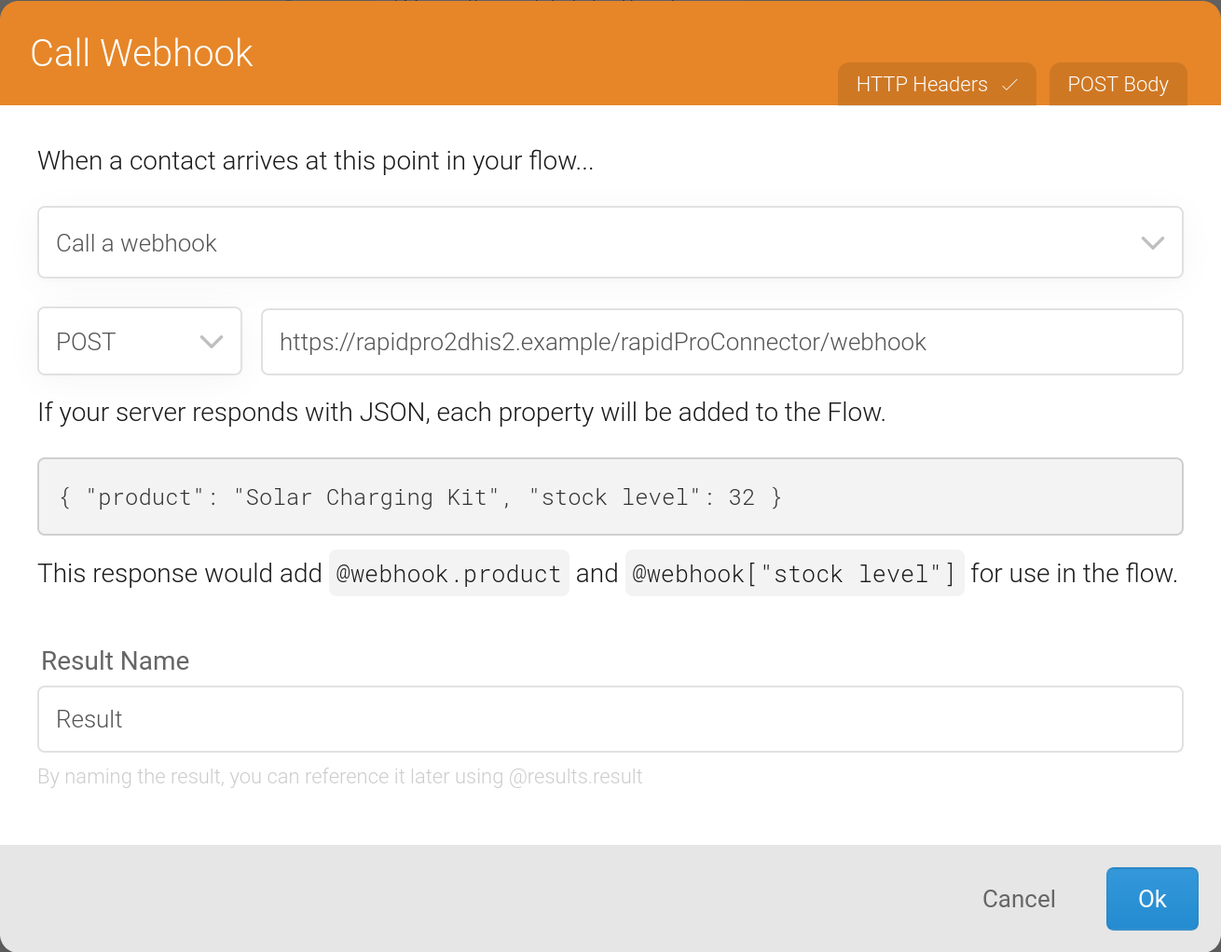
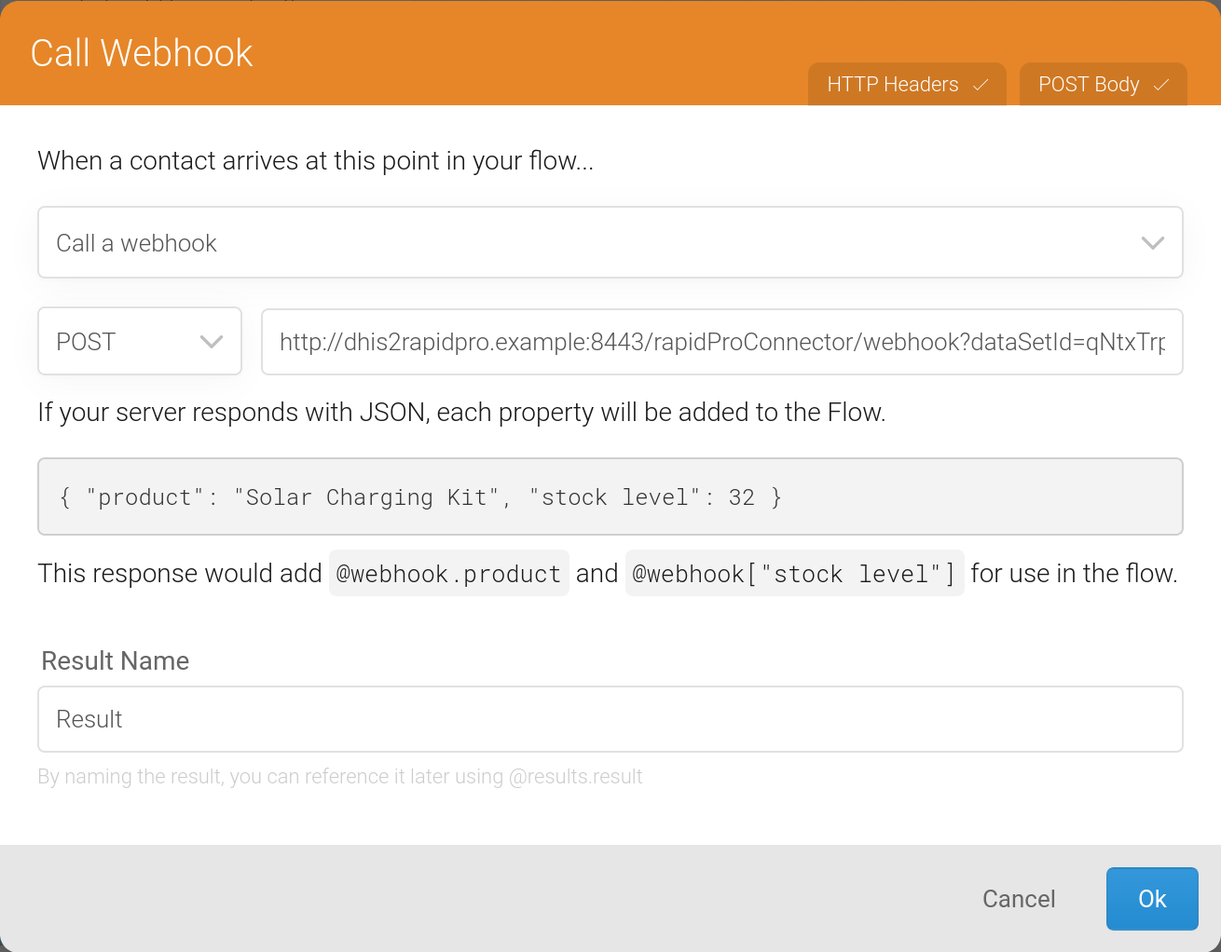
docs: update docs to reflect the latest changes in INTEROP-20, INTEROP-21 and INTEROP-22 (#46)

Changed region(s): [[0.2748, 0.3337, 0.9466, 0.364], [0.855, 0.0607, 0.9466, 0.091], [0.7023, 0.0607, 0.7939, 0.091]]

diff --git a/README.md b/README.md
@@ -6,7 +6,10 @@
 
 1. [Introduction](#introduction)
 2. [Requirements](#requirements)
-3. [Setup](#setup)
+3. [Features](#features)
+   1. [Contact Synchronisation](#contact-synchronisation)
+   2. [Aggregate Report Transfer](#aggregate-report-transfer)
+   3. [Auto-Reminders](#auto-reminders)
 4. [Getting Started](#getting-started)
 5. [Configuration](#configuration)
 6. [Monitoring & Management](#monitoring--management)
@@ -15,7 +18,7 @@
 
 ## Introduction
 
-DHIS-to-RapidPro is a stand-alone Java solution that integrates DHIS2 with RapidPro. [DHIS2](https://dhis2.org/about/) is an open-source information system primarily used in the health domain while [RapidPro](https://rapidpro.github.io/rapidpro/) is an open-source workflow engine for running mobile-based services. 
+DHIS-to-RapidPro is a stand-alone Java solution that integrates DHIS2 with RapidPro. [DHIS2](https://dhis2.org/about/) is an open-source information system primarily used in the health domain while [RapidPro](https://rapidpro.github.io/rapidpro/) is an open-source workflow engine for running mobile-based services.
 
 DHIS-to-RapidPro provides:
 
@@ -29,11 +32,29 @@ DHIS-to-RapidPro provides:
 * RapidPro v7.4
 * DHIS >= v2.36
 
-## Setup
+## Features
 
-### DHIS2 Instructions
+### Contact Synchronisation
 
-1. Set a code in each data element that will capture an aggregate value from RapidPro. To configure the data element code:
+When contact synchronisation is triggered, DHIS-to-RapidPro fetches the users from your DHIS2 server to either:
+* create RapidPro contacts containing the DHIS2 user's ID, organisation unit ID, name, and mobile phone number, or
+* update existing RapidPro contacts to match any changes in the corresponding DHIS2 users.
+
+Prior to synchronisation, DHIS-to-RapidPro automatically creates in RapidPro:
+* the contact group `DHIS2`, and 
+* two contact fields named `dhis2_organisation_unit_id` and `dhis2_user_id`
+
+DHIS-to-RapidPro will re-create this group and these fields should they be deleted. During synchronisation, each contact is assigned to the `DHIS2` group and has its fields populated accordingly. Any application error during the syncing of a contact will lead to an exception log entry but the error will not abort the synchronisation process. In other words, synchronisation may be partially successful.
+
+Contact synchronisation is enabled by default. Setting `sync.rapidpro.contacts` to `false` disables synchronisation. The interval rate at which contacts are synchronised is expressed as a cron expression with the config key `sync.schedule.expression`. Alternatively, hit DHIS-to-RapidPro's URL path `/rapidProConnector/sync`to manually kickoff syncing.
+
+### Aggregate Report Transfer
+
+Follow the subsequent DHIS2 and RapidPro setup instructions to be able to transfer aggregate reports from RapidPro to DHIS2.
+
+#### DHIS2 Instructions
+
+Set a code in each data element that will capture an aggregate value from RapidPro. To configure the data element code:
    1. Go to the Maintenance application
    2. Open the Data Elements page
    3. Search for the data element
@@ -41,66 +62,56 @@ DHIS-to-RapidPro provides:
       ![Data Element](static/images/dhis2-data-element.png)
       >***IMPORTANT:*** you need to enter a code that starts with a letter, a hyphen, an underscore, or a whitespace to achieve successful interoperability between DHIS2 and RapidPro.
 
-2. Create a [personal access token](https://docs.dhis2.org/en/use/user-guides/dhis-core-version-238/working-with-your-account/personal-access-tokens.html) or a user for DHIS-to-RapidPro such that the application can authenticate on DHIS2 and has permissions to fetch all the DHIS2 users in addition to completing the applicable data sets for the relevant organisation units.
-    >_Security note_: personal access token authentication is recommended over basic access authentication. 
-
-### RapidPro Instructions
+#### RapidPro Instructions
 
 1. Save each incoming aggregate value in the RapidPro flow to a result like what is shown next:
-![Flow Result](static/images/opd-attendance.png)
-The result name must match the code of the corresponding data element in DHIS2. Upper case letters in the data element code can be entered as lower case letters in the result name field while whitespaces and hyphens can be entered as underscores.
+   ![Flow Result](static/images/opd-attendance.png)
+   The result name must match the code of the corresponding data element in DHIS2. Upper case letters in the data element code can be entered as lower case letters in the result name field while whitespaces and hyphens can be entered as underscores.
 
 2. Create a webhook call node in the RapidPro flow to dispatch the results to DHIS-to-RapidPro:
    ![Flow Result](static/images/webhook.png)
    The webhook call node must be configured as follows:
-   - HTTP method selected is `POST`
-   - URL field points to the DHIS-to-RapidPro HTTPS address is listening on. The default HTTPS port number is _8443_ (see `server.port` in [Configuration](#configuration)): the path in the URL field is required to end with `/rapidProConnector/webhook`.
-   - HTTP body has the `data_set_id` property in the `flow object`. For example:
-     ```
-     @(json(object(
-      "contact", object(
-        "uuid", contact.uuid, 
-        "name", contact.name, 
-        "urn", contact.urn
-      ),
-      "flow", object(
-        "uuid", run.flow.uuid, 
-        "name", run.flow.name,
-        "data_set_id", "qNtxTrp56wV"
-      ),
-      "results", foreach_value(results, extract_object, "value", "category")
-     )))
-     ```
-     `data_set_id` identifies the DHIS2 data set that flow result values belong to. You need to look up the data set ID from the DHIS2 maintenance app and hard-code its ID as shown above.
+   - Select the HTTP method to be `POST`:
+     ![POST webhook](static/images/post-webhook.png)
+   - Set the URL field to the HTTP/S address that DHIS-to-RapidPro is listening on. The default HTTPS port number is _8443_ (see `server.port` in [Configuration](#configuration)): the path in the URL field is required to end with `/rapidProConnector/webhook`:
+     ![URL webhook](static/images/url-webhook.png)
+   - Append to the URL the `dataSetId` query parameter which identifies the data set that the contact is reporting. You need to look up the data set ID from the DHIS2 maintenance app and hard-code its ID as shown below:
+     ![Data set ID query parameter](static/images/data-set-id-query-param.png)
+   - You can optionally append the `reportPeriodOffset` query parameter which is the relative period to add or subtract from the current reporting period sent to DHIS2. If omitted, the `reportPeriodOffset` parameter defaults to -1.
+     ![Report period offset query parameter](static/images/report-period-offset-query-param.png)
+   - Another optional query parameter you can append is `orgUnitId`. This parameter overrides the value set in the contact's _DHIS2 Organisation Unit ID_ field.
 
 3. If contact synchronisation is disabled (see `sync.rapidpro.contacts` in [Configuration](#configuration)), then create a custom contact field named _DHIS2 Organisation Unit ID_:
-  ![Custom Field](static/images/custom-fields.png)
-  You must populate this field, either manually or automatically, for each contact that will have its details sent to the DHIS2-to-RapidPro webhook. The field value should be the contact's DHIS2 organisation unit identifier. By default, DHIS2-to-RapidPro expects the organisation unit identifier to be the ID (see `org.unit.id.scheme` in [Configuration](#configuration)).
+![Custom Field](static/images/custom-fields.png)
+Unless the `orgUnitId` webhook query parameter is set, you must populate this field, either manually or automatically, for each contact belonging to a DHIS2 organisation unit. The field should hold the contact's DHIS2 organisation unit identifier. By default, DHIS-to-RapidPro expects the organisation unit identifier to be the ID (see `org.unit.id.scheme` in [Configuration](#configuration)).
 
-4. On the other hand, if contact synchronisation is enabled, then create a dedicated user for DHIS2-to-RapidPro with the _Editor_ role. Take note of the user's API token so that it can be used during DHIS2-to-RapidPro's configuration (see `rapidpro.api.token` in [Configuration](#configuration)).
+### Auto-Reminders
+
+Reminders for overdue reports are sent for each DHIS2 data set specified in the config property `reminder.data.set.ids`. In this property, you enter the data set IDs separated by comma. Reminders are sent to contacts that are within the `DHIS2` group. This group is automatically created and contacts assigned to it as part of the contact synchronisation process but you can also manually create the group in RapidPro as shown below:
+
+![Create group](static/images/create-group.png)
+
+>IMPORTANT: Do not forget to assign auto-reminder contacts to the `DHIS2` group
+
+The interval rate at which contacts are reminded is expressed as a cron expression with the config key `reminder.schedule.expression`. Alternatively, hit DHIS-to-RapidPro's URL path `/rapidProConnector/reminders`to broadcast the reminders for overdue reports.
 
 ## Getting Started
 
 ### *nix Usage Examples
 
-##### Contact synchronisation, aggregate report transfer, and auto-reminders
+##### Basic usage
 ```shell
-./dhis2rapidpro.jar --dhis2.api.url=https://play.dhis2.org/2.38.1/api --dhis2.api.pat=d2pat_apheulkR1x7ac8vr9vcxrFkXlgeRiFc94200032556 --rapidpro.api.url=https://rapidpro.dhis2.org/api/v2 --rapidpro.api.token=3048a3b9a04c1948aa5a7fd06e7592ba5a17d3d0 --reminder.data.set.ids=V8MHeZHIrcP,PLq9sJluXvc,aLpVgfXiz0f --report.period.type=weekly
+./dhis2rapidpro.jar --dhis2.api.url=https://play.dhis2.org/2.38.1/api --dhis2.api.pat=d2pat_apheulkR1x7ac8vr9vcxrFkXlgeRiFc94200032556 --rapidpro.api.url=https://rapidpro.dhis2.org/api/v2 --rapidpro.api.token=3048a3b9a04c1948aa5a7fd06e7592ba5a17d3d0
 ```
 
-##### Contact synchronisation and auto-reminders
+##### Auto-reminders
 ```shell
 ./dhis2rapidpro.jar --dhis2.api.url=https://play.dhis2.org/2.38.1/api --dhis2.api.pat=d2pat_apheulkR1x7ac8vr9vcxrFkXlgeRiFc94200032556 --rapidpro.api.url=https://rapidpro.dhis2.org/api/v2 --rapidpro.api.token=3048a3b9a04c1948aa5a7fd06e7592ba5a17d3d0 --reminder.data.set.ids=V8MHeZHIrcP,PLq9sJluXvc,aLpVgfXiz0f
 ```
 
-##### Contact synchronisation and aggregate report transfer
+##### Contact synchronisation disabled
 ```shell
-./dhis2rapidpro.jar --dhis2.api.url=https://play.dhis2.org/2.38.1/api --dhis2.api.pat=d2pat_apheulkR1x7ac8vr9vcxrFkXlgeRiFc94200032556 --rapidpro.api.url=https://rapidpro.dhis2.org/api/v2 --rapidpro.api.token=3048a3b9a04c1948aa5a7fd06e7592ba5a17d3d0 --report.period.type=weekly
-```
-
-##### Contact synchronisation disabled and aggregate report transfer
-```shell
-./dhis2rapidpro.jar --dhis2.api.url=https://play.dhis2.org/2.38.1/api --dhis2.api.pat=d2pat_apheulkR1x7ac8vr9vcxrFkXlgeRiFc94200032556 --report.period.type=weekly --sync.rapidpro.contacts=false --report.period.type=weekly
+./dhis2rapidpro.jar --dhis2.api.url=https://play.dhis2.org/2.38.1/api --dhis2.api.pat=d2pat_apheulkR1x7ac8vr9vcxrFkXlgeRiFc94200032556 --sync.rapidpro.contacts=false
 ```
 
 ## Configuration
@@ -111,27 +122,26 @@ By order of precedence, a config property can be specified:
 2. as an OS environment variable (e.g., `export DHIS2_API_URL=https://play.dhis2.org/2.38.1/api`)
 3. in a key/value property file called `application.properties` or a YAML file named `application.yml`
 
-| Config name                     |     | Description                                                                                                                                                                           | Default value                               | Example value                                      |
-|---------------------------------|:----|---------------------------------------------------------------------------------------------------------------------------------------------------------------------------------------|---------------------------------------------|----------------------------------------------------|
-| `dhis2.api.url`                 |     | DHIS2 server Web API URL.                                                                                                                                                             |                                             | `https://play.dhis2.org/2.38.1/api`                |
-| `dhis2.api.pat`                 |     | Personal access token to authenticate with on DHIS2. This property is mutually exclusive to `dhis2.api.username` and `dhis2.api.password`.                                            |                                             | `d2pat_apheulkR1x7ac8vr9vcxrFkXlgeRiFc94200032556` |
-| `dhis2.api.username`            |     | Username of the DHIS2 user to operate as.                                                                                                                                             |                                             | `admin`                                            |
-| `dhis2.api.password`            |     | Password of the DHIS2 user to operate as.                                                                                                                                             |                                             |                                                    |
-| `rapidpro.api.url`              |     | RapidPro server Web API URL. This property should be left empty if `sync.rapidpro.contacts` is `false`.                                                                               |                                             | `https://rapidpro.dhis2.org/api/v2`                |
-| `rapidpro.api.token`            |     | API token to authenticate with on RapidPro. This property should be left empty if `sync.rapidpro.contacts` is `false`.                                                                |                                             | `3048a3b9a04c1948aa5a7fd06e7592ba5a17d3d0`         |
-| `server.port`                   |     | The TCP port number the application will bind to for accepting HTTP requests.                                                                                                         | `8443`                                      | `443`                                              |
-| `sync.schedule.expression`      |     | Cron expression for synchronising RapidPro contacts with DHIS2 users. By default, synchronisation occurs every half hour.                                                             | `0 0/30 * * * ?`                            | `0 0 0 * * ?`                                      |
-| `reminder.schedule.expression`  |     | Cron expression for broadcasting reminders of overdue reports to RapidPro contacts. By default, overdue report reminders are sent at 9 a.m. every day.                                | `0 0 9 ? * *`                               | `0 0 0 * * ?`                                      |
-| `sync.rapidpro.contacts`        |     | Whether to routinely create and update RapidPro contacts from DHIS2 users. Setting this property to `false` means that `rapidpro.api.url` and `rapidpro.api.token` can be left empty. | `true`                                      | `false`                                            |
-| `reminder.data.set.ids`         |     | Comma-delimited list of DHIS2 data set IDs for which overdue report reminders are sent.                                                                                               |                                             | `qNtxTrp56wV,TuL8IOPzpHh`                          |
-| `report.period.type`            |     | Period type to use for the data value set sent to DHIS2. Must be set to one of the following: `daily`, `weekly`, `monthly`, `bi_monthly`, `six_monthly`, `financial_year_nov`         |                                             | `weekly`                                           |
-| `report.period.offset`          |     | Relative period to add or subtract from the current reporting period sent to DHIS2.                                                                                                   | `0`                                         | `-1`                                               |
-| `org.unit.id.scheme`            |     | By which field organisation units are identified.                                                                                                                                     | `ID`                                        | `CODE`                                             |
-| `spring.security.user.name`     |     | Login username for Hawtio and H2 web consoles.                                                                                                                                        | `dhis2rapidpro`                             | `admin`                                            |
-| `spring.security.user.password` |     | Login password for Hawtio and H2 web consoles.                                                                                                                                        | `dhis2rapidpro`                             | `secret`                                           |
-| `spring.h2.console.enabled`     |     | Whether to enable the H2 web console.                                                                                                                                                 | `true`                                      | `false`                                            |
-| `spring.datasource.url`         |     | JDBC URL to access the dead letter channel. Changing this URL to connect to a non-H2 database requires that you add the database vendor's JDBC driver to the Java classpath.          | `jdbc:h2:./dhis2-rapidpro;AUTO_SERVER=TRUE` | `jdbc:postgresql://localhost:5432/dhis2rapidpro`   |
-| `spring.jmx.enabled`            |     | Whether to expose the JMX metrics.                                                                                                                                                    | `true`                                      | `false`                                            |
+| Config name                           | Description                                                                                                                                                          | Default value                              | Example value                                      |
+|---------------------------------------|----------------------------------------------------------------------------------------------------------------------------------------------------------------------|--------------------------------------------|----------------------------------------------------|
+| `dhis2.api.url`                       | DHIS2 server Web API URL.                                                                                                                                            |                                            | `https://play.dhis2.org/2.38.1/api`                |
+| `dhis2.api.pat`                       | Personal access token to authenticate with on DHIS2. This property is mutually exclusive to `dhis2.api.username` and `dhis2.api.password`.                           |                                            | `d2pat_apheulkR1x7ac8vr9vcxrFkXlgeRiFc94200032556` |
+| `dhis2.api.username`                  | Username of the DHIS2 user to operate as.                                                                                                                            |                                            | `admin`                                            |
+| `dhis2.api.password`                  | Password of the DHIS2 user to operate as.                                                                                                                            |                                            |                                                    |
+| `rapidpro.api.url`                    | RapidPro server Web API URL.                                                                                                                                         |                                            | `https://rapidpro.dhis2.org/api/v2`                |
+| `rapidpro.api.token`                  | API token to authenticate with on RapidPro.                                                                                                                          |                                            | `3048a3b9a04c1948aa5a7fd06e7592ba5a17d3d0`         |
+| `server.port`                         | The TCP port number the application will bind to for accepting HTTP requests.                                                                                        | `8443`                                     | `443`                                              |
+| `sync.schedule.expression`            | Cron expression for synchronising RapidPro contacts with DHIS2 users. By default, synchronisation occurs every half hour.                                            | `0 0/30 * * * ?`                           | `0 0 0 * * ?`                                      |
+| `reminder.schedule.expression`        | Cron expression for broadcasting reminders of overdue reports to RapidPro contacts. By default, overdue report reminders are sent at 9 a.m. every day.               | `0 0 9 ? * *`                              | `0 0 0 * * ?`                                      |
+| `sync.rapidpro.contacts`              | Whether to routinely create and update RapidPro contacts from DHIS2 users.                                                                                           | `true`                                     | `false`                                            |
+| `reminder.data.set.ids`               | Comma-delimited list of DHIS2 data set IDs for which overdue report reminders are sent.                                                                              |                                            | `qNtxTrp56wV,TuL8IOPzpHh`                          |
+| `org.unit.id.scheme`                  | By which field organisation units are identified.                                                                                                                    | `ID`                                       | `CODE`                                             |
+| `spring.security.user.name`           | Login username for non-webhook services like the Hawtio and H2 web consoles.                                                                                         | `dhis2rapidpro`                            | `admin`                                            |
+| `spring.security.user.password`       | Login password for non-webhook services like the Hawtio and H2 web consoles.                                                                                         | `dhis2rapidpro`                            | `secret`                                           |
+| `spring.h2.console.enabled`           | Whether to enable the H2 web console.                                                                                                                                | `true`                                     | `false`                                            |
+| `spring.datasource.url`               | JDBC URL for persisting undeliverable reports and JMS queues.                                                                                                        | `jdbc:h2:./dhis2rapidpro;AUTO_SERVER=TRUE` | `jdbc:postgresql://localhost:5432/dhis2rapidpro`   |
+| `spring.datasource.driver-class-name` | Class name of the JDBC driver used to connect to the database. Changing this property requires that you add the database vendor's JDBC driver to the Java classpath. | `org.h2.Driver`                            | `org.postgresql.Driver`                            |
+| `spring.jmx.enabled`                  | Whether to expose the JMX metrics.                                                                                                                                   | `true`                                     | `false`                                            |
 
 
 ##  Monitoring & Management
@@ -142,27 +152,30 @@ From the Hawtio web console, apart from browsing application logs, the system op
 
 ![Hawtio Management Console](static/images/hawtio-management-console.png)
 
-You can log into the Hawtio console locally from [https://localhost:8443/management/hawtio](https://localhost:8443/management/hawtio) using the username and password `dhis2rapidpro`. You can set the parameter `management.endpoints.web.exposure.include` (i.e., `--management.endpoints.web.exposure.include=`) to an empty value to deny HTTP access to the Hawtio web console. 
+You can log into the Hawtio console locally from [https://localhost:8443/management/hawtio](https://localhost:8443/management/hawtio) using the username and password `dhis2rapidpro`. You can set the parameter `management.endpoints.web.exposure.include` (i.e., `--management.endpoints.web.exposure.include=`) to an empty value to deny HTTP access to the Hawtio web console.
 
 >***IMPORTANT***: immediately change the login credentials during setup (see `spring.security.user.name` and `spring.security.user.password` in [Configuration](#configuration)).
 
 ## Recovering Failed Reports
 
-A report that fails to be uploaded to DHIS2, perhaps because of an invalid webhook payload or an HTTP timeout error, has its associated RapidPro webhook JSON payload pushed to a relational dead letter channel for manual inspection. The dead letter channel table schema is as follows:
+A report that fails to be delivered to DHIS2, perhaps because of an invalid webhook payload or an HTTP timeout error, has its associated RapidPro webhook JSON payload pushed to a relational dead letter channel for manual inspection. The dead letter channel table schema is as follows:
 
-| Column name       | Column type              | Description                                                                                                                                                                                                                                                                                                                           | Column value example                                                                                                                                                                                                                                                                                                                                                                                                        |
-|-------------------|--------------------------|---------------------------------------------------------------------------------------------------------------------------------------------------------------------------------------------------------------------------------------------------------------------------------------------------------------------------------------|-----------------------------------------------------------------------------------------------------------------------------------------------------------------------------------------------------------------------------------------------------------------------------------------------------------------------------------------------------------------------------------------------------------------------------|
-| ID                | INTEGER                  | An auto-increment number identifying the row uniquely.                                                                                                                                                                                                                                                                                | 6                                                                                                                                                                                                                                                                                                                                                                                                                           |
-| PAYLOAD           | VARCHAR                  | Webhook JSON message as sent by RapidPro.                                                                                                                                                                                                                                                                                             | `{"contact":{"name":"John Doe","urn":"tel:+12065551213","uuid":"fb3787ab-2eda-48a0-a2bc-e2ddadec1286","dhis2_organisation_unit_id":"O6uvpzGd5pu"},"flow":{"name":"APT","uuid":"cb0360e3-d82a-4521-aad3-15afd704ec26","data_set_id":"qNtxTrp56wV"},"results":{"msg":{"value":"APT.2.4.6"},"gen_ext_fund":{"value":"2"},"mal_pop_total":{"value":"10"},"mal_llin_distr_pw":{"value":"3"},"gen_domestic_fund":{"value":"5"}}}` |
-| ERROR_MESSAGE     | VARCHAR                  | Message describing the root cause of the error.                                                                                                                                                                                                                                                                                       | `Response{protocol=http/1.1, code=500, message=, url=https://play.dhis2.org/2.38.1/api//dataValueSets?dataElementIdScheme=CODE&orgUnitIdScheme=bar}`                                                                                                                                                                                                                                                                        |
-| STATUS            | ENUM                     | Specifies the row's state which determines how the application processes the row. The user sets the status to `RETRY` for payloads that need to be retried. DHIS2-to-RapidPro sets the status to `ERROR` for payloads that could not be processed successfully. Alternatively, payloads that are processed are marked as `PROCESSED`. | `ERROR`                                                                                                                                                                                                                                                                                                                                                                                                                     |
-| CREATED_AT        | TIMESTAMP WITH TIME ZONE | Denotes the time the row was created.                                                                                                                                                                                                                                                                                                 | `2022-07-20 11:09:57.992 +0200`                                                                                                                                                                                                                                                                                                                                                                                             |
-| LAST_PROCESSED_AT | TIMESTAMP WITH TIME ZONE | Denotes the last time the row was processed.                                                                                                                                                                                                                                                                                          | `2022-07-20 11:09:57.992 +0200`                                                                                                                                                                                                                                                                                                                                                                                             |
+| Column name          | Column type              | Description                                                                                                                                                                                                                                                                                                                          | Column value example                                                                                                                                                                                                                                                                                                                                 |
+|----------------------|--------------------------|--------------------------------------------------------------------------------------------------------------------------------------------------------------------------------------------------------------------------------------------------------------------------------------------------------------------------------------|------------------------------------------------------------------------------------------------------------------------------------------------------------------------------------------------------------------------------------------------------------------------------------------------------------------------------------------------------|
+| ID                   | INTEGER                  | An auto-increment number identifying the row uniquely.                                                                                                                                                                                                                                                                               | 6                                                                                                                                                                                                                                                                                                                                                    |
+| PAYLOAD              | VARCHAR                  | Webhook JSON message as sent by RapidPro.                                                                                                                                                                                                                                                                                            | `{"contact":{"name":"John Doe","urn":"tel:+12065551213","uuid":"fb3787ab-2eda-48a0-a2bc-e2ddadec1286"},"flow":{"name":"APT","uuid":"cb0360e3-d82a-4521-aad3-15afd704ec26"},"results":{"msg":{"value":"APT.2.4.6"},"gen_ext_fund":{"value":"2"},"mal_pop_total":{"value":"10"},"mal_llin_distr_pw":{"value":"3"},"gen_domestic_fund":{"value":"5"}}}` |
+| DATA_SET_ID          | VARCHAR                  | ID of the DHIS2 data set that the report belongs to.                                                                                                                                                                                                                                                                                 | `V8MHeZHIrcP`                                                                                                                                                                                                                                                                                                                                        |
+| REPORT_PERIOD_OFFSET | INTEGER                  | Relative period to add or subtract from the current reporting period.                                                                                                                                                                                                                                                                | `-1`                                                                                                                                                                                                                                                                                                                                                 |
+| ORGANISATION_UNIT_ID | VARCHAR                  | Identifier of the DHIS2 organisation unit that the contact belongs to.                                                                                                                                                                                                                                                               | `Vth0fbpFcsO`                                                                                                                                                                                                                                                                                                                                        |
+| ERROR_MESSAGE        | VARCHAR                  | Message describing the root cause of the error.                                                                                                                                                                                                                                                                                      | `Response{protocol=http/1.1, code=500, message=, url=https://play.dhis2.org/2.38.1/api//dataValueSets?dataElementIdScheme=CODE&orgUnitIdScheme=bar}`                                                                                                                                                                                                 |
+| STATUS               | ENUM                     | Specifies the row's state which determines how the application processes the row. The user sets the status to `RETRY` for payloads that need to be retried. DHIS-to-RapidPro sets the status to `ERROR` for payloads that could not be processed successfully. Alternatively, payloads that are processed are marked as `PROCESSED`. | `ERROR`                                                                                                                                                                                                                                                                                                                                              |
+| CREATED_AT           | TIMESTAMP WITH TIME ZONE | Denotes the time the row was created.                                                                                                                                                                                                                                                                                                | `2022-07-20 11:09:57.992 +0200`                                                                                                                                                                                                                                                                                                                      |
+| LAST_PROCESSED_AT    | TIMESTAMP WITH TIME ZONE | Denotes the last time the row was processed.                                                                                                                                                                                                                                                                                         | `2022-07-20 11:09:57.992 +0200`                                                                                                                                                                                                                                                                                                                      |
 
 You can re-process a failed report by setting its corresponding row status column to `RETRY` using an [ANSI SQL UPDATE](https://www.w3schools.com/sql/sql_update.asp) command issued from an SQL client connected to the data store. For instance:
 
 ```sql
-UPDATE DEAD_LETTER_CHANNEL SET status = 'RETRY' WHERE STATUS = 'ERROR' 
+UPDATE DEAD_LETTER_CHANNEL SET status = 'RETRY' WHERE status = 'ERROR' 
 ```
 
 [H2](https://www.h2database.com) is the default relational data store that manages the dead letter channel. H2 has an in-built web console which allows you to issue SQL commands in order to view, edit, and retry failed reports:
@@ -181,8 +194,8 @@ The H2 DBMS is embedded with DHIS-to-RapidPro but the DBMS can be easily substit
 
 Unexpected behaviour in DHIS-to-RapidPro typically manifests itself as:
 
-* errors in the applications logs, or 
-* incorrect data (e.g., wrong organisation unit ID in the data value sets). 
+* errors in the applications logs, or
+* incorrect data (e.g., wrong organisation unit ID in the data value sets).
 
 The first step to determine the root cause of unexpected behaviour is to search for recent errors in the [dead letter channel](#recovering-failed-reports):
 
@@ -201,16 +214,19 @@ SET status = 'RETRY'
 WHERE status = 'ERROR' AND created_at > DATEADD('DAY', -1, CURRENT_TIMESTAMP())	
 ```
 
-After issuing the above SQL, DHIS-to-RapidPro will poll for the `RETRY` rows from the data store and re-process the reports. Processed rows, whether successful or not, are updated as `PROCESSED` and have their `LAST_PROCESSED_AT` column updated to the current time. If a retry fails, DHIS-to-RapidPro will go on to insert a corresponding new `ERROR` row in the `DEAD_LETTER_CHANNEL` table. 
+After issuing the above SQL, DHIS-to-RapidPro will poll for the `RETRY` rows from the data store and re-process the reports. Processed rows, whether successful or not, are updated as `PROCESSED` and have their `LAST_PROCESSED_AT` column updated to the current time. If a retry fails, DHIS-to-RapidPro will go on to insert a corresponding new `ERROR` row in the `DEAD_LETTER_CHANNEL` table.
 
 Non-transient failures such as validation errors require human intervention which might mean that you have to update the `payload` column value so that it conforms with the expected structure or data type:
 
 ```sql
 UPDATE DEAD_LETTER_CHANNEL 
-SET status = 'RETRY', payload = '{"contact":{"name":"John Doe","urn":"tel:+12065551213","uuid":"fb3787ab-2eda-48a0-a2bc-e2ddadec1286","dhis2_organisation_unit_id":"O6uvpzGd5pu"},"flow":{"name":"APT","uuid":"cb0360e3-d82a-4521-aad3-15afd704ec26","data_set_id":"qNtxTrp56wV"},"results":{"msg":{"value":"APT.2.4.6"},"gen_ext_fund":{"value":"2"},"mal_pop_total":{"value":"10"},"mal_llin_distr_pw":{"value":"3"},"gen_domestic_fund":{"value":"5"}}}' 
+SET status = 'RETRY', payload = '{"contact":{"name":"John Doe","urn":"tel:+12065551213","uuid":"fb3787ab-2eda-48a0-a2bc-e2ddadec1286"},"flow":{"name":"APT","uuid":"cb0360e3-d82a-4521-aad3-15afd704ec26"},"results":{"msg":{"value":"APT.2.4.6"},"gen_ext_fund":{"value":"2"},"mal_pop_total":{"value":"10"},"mal_llin_distr_pw":{"value":"3"},"gen_domestic_fund":{"value":"5"}}}' 
 WHERE id = '1023'
 ```
 
-Deeper technical problems might not manifest themselves up as failed reports but as exceptions in the application logs. The logs can be analysed from the [Hawtio web console](#monitoring--management) or directly from the log file `dhis-to-rapidpro.log`, situated in DHIS-to-RapidPro's working directory. Keep an eye out for exceptions while combing through the logs. Any exception messages, including their stack traces, should be collected from the logs and further analysed. You may want to reach out to the [DHIS2 Community of Practice](https://community.dhis2.org/) for troubleshooting support. If all else fails, you can try increasing the log verbosity to zone in on the root cause. Setting the config property `logging.level.org.hisp.dhis.integration.rapidpro` to `DEBUG` will lead to the application printing more detail in the logs. As a last resort, though not recommended, you can have the application print even more detail by setting `logging.level.root` to `DEBUG`. 
+Deeper technical problems might not manifest themselves up as failed reports but as exceptions in the application logs. The logs can be analysed from the [Hawtio web console](#monitoring--management) or directly from the log file `dhis2rapidpro.log`, situated in DHIS-to-RapidPro's working directory. Keep an eye out for exceptions while combing through the logs. Any exception messages, including their stack traces, should be collected from the logs and further analysed. You may want to reach out to the [DHIS2 Community of Practice](https://community.dhis2.org/) for troubleshooting support. If all else fails, you can try increasing the log verbosity to zone in on the root cause. Setting the config property `logging.level.org.hisp.dhis.integration.rapidpro` to `DEBUG` will lead to the application printing more detail in the logs. As a last resort, though not recommended, you can have the application print even more detail by setting `logging.level.root` to `DEBUG`.
 
 >***CAUTION:*** be careful about increasing log verbosity since it may quickly eat up the server's disk space if the application is logging to a file, the default behaviour.
+
+
+
